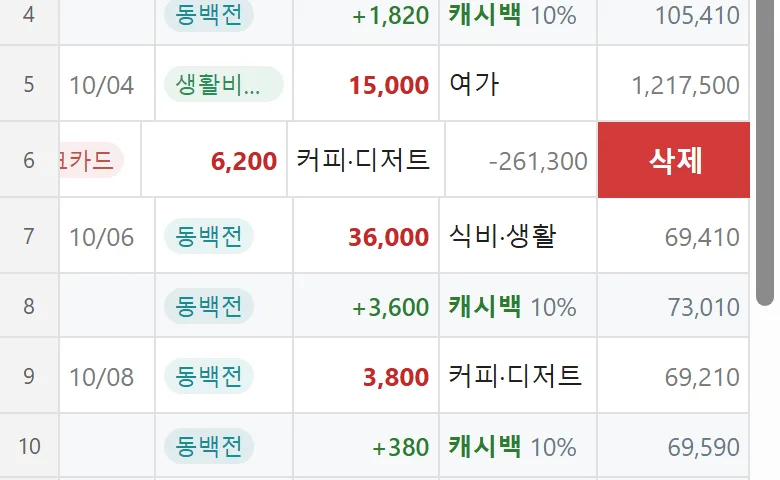
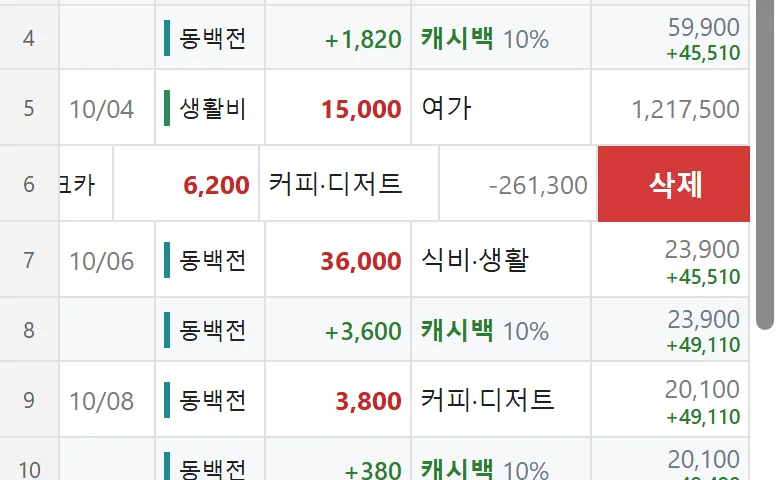
뒤로 가기 두 번에 앱 밖으로 나가던 문제, 안내 사진 새로, 좁은 화면 설정 창

diff --git a/js/edit.js b/js/edit.js
@@ -283,8 +283,10 @@ ACT.pickPill = d => {
 ACT.col = d => { U.col = { ...U.col, [d.v]: !U.col[d.v] }; render(); };
 ACT.detail = d => { U.detail = d.v; detailPush(); render(); $('#grid').scrollTop = 0; };
 ACT.detail2 = d => { U.tab = 'accts'; U.detail = d.v; detailPush(); render(); };
-ACT.back = () => { U.detail = null; render(); if (history.state?.cbDetail) history.back(); };
-const detailPush = () => { try { if (!history.state?.cbDetail) history.pushState({ cbDetail: 1 }, ''); } catch (e) { } };
+// 뒤로 가기는 늦게 처리돼서, 처리 전에 또 부르면 앱 밖 페이지로 나갈 수 있음 → 처리 중엔 다시 부르지 않음
+let BKG = false;
+ACT.back = () => { U.detail = null; render(); if (history.state?.cbDetail && !BKG) { BKG = true; history.back(); } };
+const detailPush = () => { try { if (!BKG && !history.state?.cbDetail) history.pushState({ cbDetail: 1 }, ''); } catch (e) { } };
 const setZoom = v => { U.zoom = Math.min(200, Math.max(50, Math.round(v))); render(); };
 ACT.moreRows = () => { U.more = true; render(); };
 ACT.zoom = d => setZoom(Math.round((U.zoom || 100) / 10) * 10 + d.k * 10);

diff --git a/app.css b/app.css
@@ -509,9 +509,12 @@ svg.mini{display:block}
 .swe{color:var(--muted);font-size:13.5px;text-align:center;line-height:1.6}
 .swin .stat{flex:none}
 /* 고르면 열리는 수정 화면은 창의 오른쪽 칸에 꼭 맞게 */
+@media (min-width:1100px){
 .setw #sheet-root.on{z-index:45;pointer-events:none}
 .setw #sheet-root .dim{display:none}
 .setw #sheet-root .bs{pointer-events:auto;position:fixed;right:calc((100vw - var(--sw-w)) / 2 + 1px);top:calc((100vh - var(--sw-h)) / 2 + 59px);width:479px;max-width:479px;height:calc(var(--sw-h) - 59px - 31px);max-height:none;border-radius:0;box-shadow:none;animation:none}
+}
+@media (max-width:1099px){.swr{display:none}.setw #sheet-root.on{z-index:45}} /* 좁으면 목록만, 수정 화면은 위에 뜸 */
 .tb .t.done:hover{background:var(--green-dk)!important;color:#fff}
 /* 입력 표 계좌 칸: 이름 왼쪽에 계좌 색 세로 막대 */
 .chip-a.bar,:root[data-theme="dark"] .chip-a.bar{background:none;color:var(--ink);border-radius:0;padding:1px 6px 1px 9px!important;box-shadow:inset 4px 0 0 var(--ac);filter:none}

diff --git a/js/boot.js b/js/boot.js
@@ -13,7 +13,7 @@ document.addEventListener('pointerdown', bkStart);
 document.addEventListener('pointermove', bkDrag);
 document.addEventListener('pointerup', bkEnd);
 document.addEventListener('pointercancel', bkEnd);
-window.addEventListener('popstate', () => { if (U.detail) { U.detail = null; render(); } }); // 브라우저 뒤로 가기
+window.addEventListener('popstate', () => { if (BKG) { BKG = false; if (U.detail) detailPush(); return; } if (U.detail) { U.detail = null; render(); } }); // 브라우저 뒤로 가기 (앱이 부른 것이면 그 사이 연 계좌 화면은 유지)
 document.addEventListener('contextmenu', ctxOpen);
 document.addEventListener('scroll', ctxClose, true);
 document.addEventListener('click', e => {

diff --git a/sw.js b/sw.js
@@ -1,5 +1,5 @@
 // 오프라인 실행용 서비스 워커 — 앱 파일만 캐시하고, 가계부 데이터는 다루지 않는다.
-const VER = 'cellbook-v11';
+const VER = 'cellbook-v12';
 const SHELL = ['./', './index.html', './app.css', './js/core.js', './js/ui.js', './js/views.js', './js/quick.js', './js/pages.js', './js/extras.js', './js/edit.js', './js/data.js', './js/boot.js', './err.js', './head.js', './config.js', './manifest.webmanifest', './icon.svg', './icon-192.png', './icon-512.png'];
 const FB = 'https://www.gstatic.com/firebasejs/';
 

diff --git a/js/ui.js b/js/ui.js
@@ -1,7 +1,7 @@
 'use strict';
 // 화면 공통: 테마, 화면 높이, 화면 상태, 표 그리기, 아래 창, 위·아래 틀
 /* ---------- 앱 버전 · 화면 테마 · 화면 높이 ---------- */
-const APP_VER = '2026.10.21-31';
+const APP_VER = '2026.10.21-33';
 // 화면 테마: auto(휴대폰 설정 따라감) / light / dark
 const THK = KEY + '.theme';
 const themePref = () => { try { return localStorage.getItem(THK) || 'auto'; } catch (e) { return 'auto'; } };
